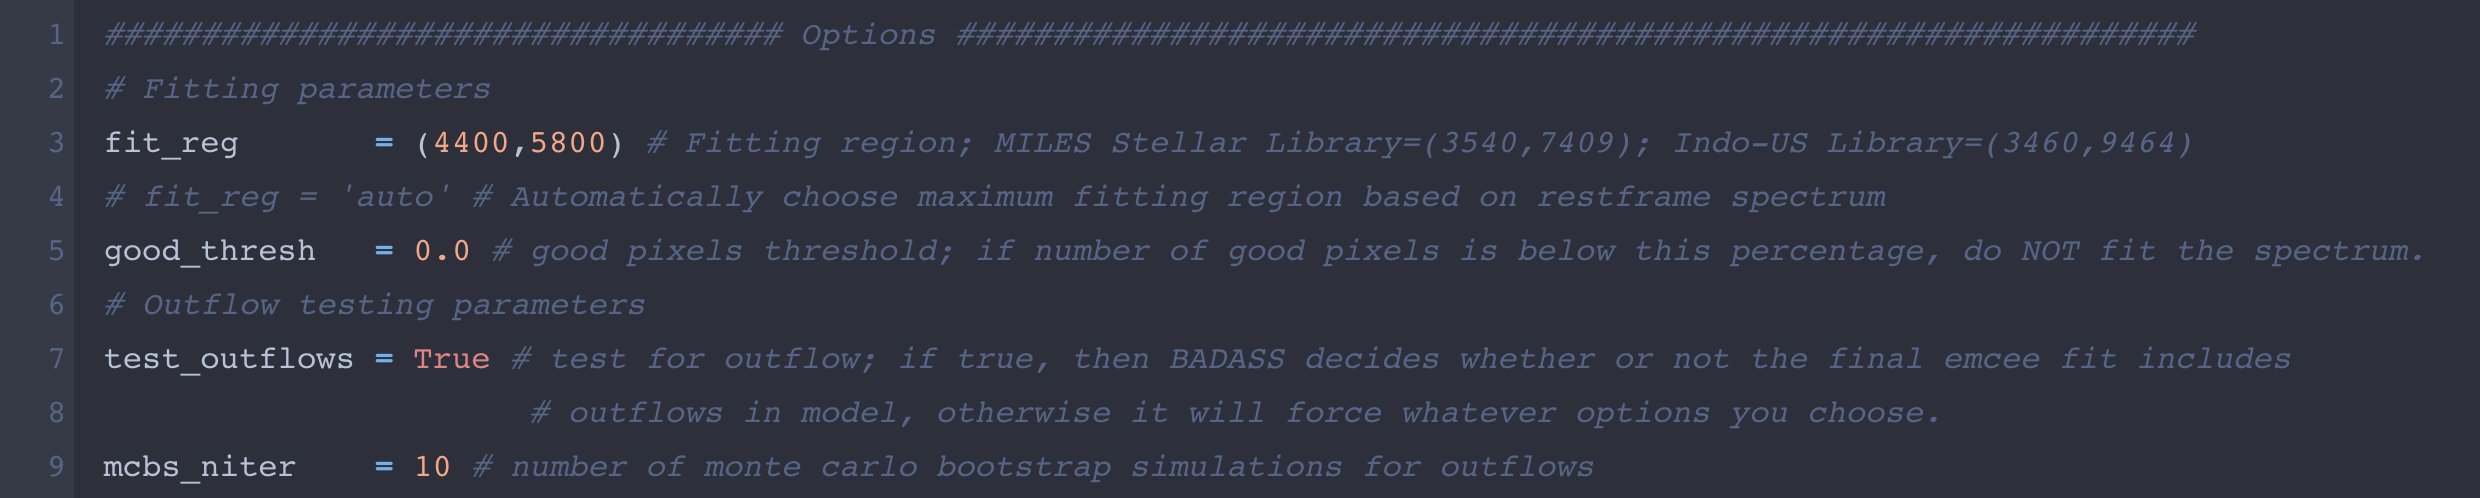
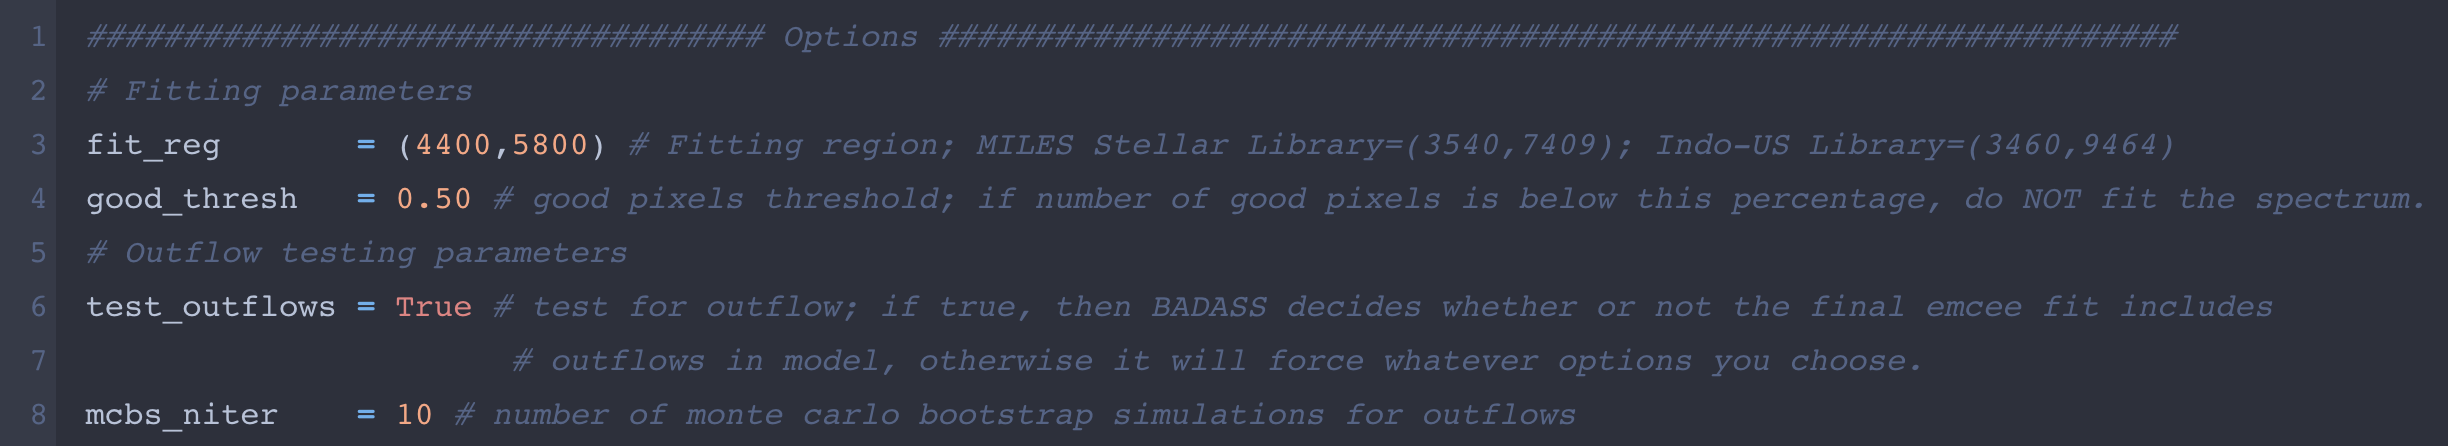
Version 6.0.2

diff --git a/badass_v6_0_2.py b/badass_v6_0_2.py
@@ -26,10 +26,8 @@ from os import path
 import os
 import shutil
 import sys
-import psutil
 import emcee
 from astropy.stats import mad_std
-import ntpath
 from astroquery.irsa_dust import IrsaDust
 import astropy.units as u
 from astropy import coordinates
@@ -43,7 +41,8 @@ import warnings
 warnings.filterwarnings("ignore", category=RuntimeWarning) 
 warnings.filterwarnings("ignore", category=UserWarning) 
 import gc # Garbage collector
-#####################################################
+##################################################################################
+
 
 #### Run BADASS ##################################################################
 
@@ -51,7 +50,7 @@ def run_BADASS(file,run_dir,temp_dir,
 			   fit_reg=(4400,5800),good_thresh=0.60,test_outflows=True,mcbs_niter=10,
 			   fit_feii=True,fit_losvd=True,fit_host=True,fit_power=True,
                fit_broad=True,fit_narrow=True,fit_outflows=True,tie_narrow=False,
-			   auto_stop=True,conv_type='all',min_samp=2500,ncor_times=2.5,autocorr_tol=5.0,
+			   nwalkers=100,auto_stop=True,conv_type='all',min_samp=2500,ncor_times=2.5,autocorr_tol=5.0,
 			   write_iter=100,write_thresh=100,burn_in=23500,min_iter=2500,max_iter=25000,threads=1,
 			   ):
 	# This is the main function responsible for executing the fitting steps in order
@@ -141,8 +140,13 @@ def run_BADASS(file,run_dir,temp_dir,
 	param_names  = [param_dict[key]['name'] for key in param_dict ]
 	init_params  = [param_dict[key]['init'] for key in param_dict ]
 	bounds       = [param_dict[key]['plim'] for key in param_dict ]
+
+	# Check number of walkers
+	# If number of walkers < 2*(# of params) (the minimum required), then set it to that
+	if nwalkers<2*len(param_names):
+		print('\n Number of walkers < 2 x (# of parameters)!.  Setting nwalkers = %d' % (2*len(param_names)))
 	
-	ndim, nwalkers = len(init_params), 50# 2*len(param_names)#50 # minimum walkers = 2*len(params)
+	ndim, nwalkers = len(init_params), nwalkers # minimum walkers = 2*len(params)
 	# initialize walker starting positions based on parameter estimation from Maximum Likelihood fitting
 	pos = [init_params + 1.0e-4*np.random.randn(ndim) for i in range(nwalkers)]
 	# Run emcee
@@ -189,9 +193,9 @@ def run_BADASS(file,run_dir,temp_dir,
 	if ('br_Ha_fwhm' in param_dict) and ('br_Ha_lum' in lum_dict):
 		print('\n Estimating black hole mass from Broad H-alpha FWHM and luminosity...')
 		print('----------------------------------------------------------------------------------------------------')
-		L5100_Ha = hbeta_to_agn_lum(lum_dict['br_Ha_lum']['par_best'],lum_dict['br_Ha_lum']['sig_low'],lum_dict['br_Ha_lum']['sig_upp'])
+		L5100_Ha = halpha_to_agn_lum(lum_dict['br_Ha_lum']['par_best'],lum_dict['br_Ha_lum']['sig_low'],lum_dict['br_Ha_lum']['sig_upp'])
 		print('\n     AGN Luminosity: log10(L5100) = %0.2f (-%0.2f, +%0.2f)' % (L5100_Ha[0],L5100_Ha[1],L5100_Ha[2]))
-		log_MBH_Halpha = estimate_BH_mass_halpha(param_dict['br_Ha_fwhm']['par_best'],param_dict['br_Ha_fwhm']['sig_low'],param_dict['br_Ha_fwhm']['sig_upp'],L5100_Hb[3])
+		log_MBH_Halpha = estimate_BH_mass_halpha(param_dict['br_Ha_fwhm']['par_best'],param_dict['br_Ha_fwhm']['sig_low'],param_dict['br_Ha_fwhm']['sig_upp'],L5100_Ha[3])
 		print('\n     BH Mass:         log10(M_BH) = %0.2f (-%0.2f, +%0.2f)' % (log_MBH_Halpha[0],log_MBH_Halpha[1],log_MBH_Halpha[2]))
 		# Write to log files
 		write_log((L5100_Ha,log_MBH_Halpha),61,run_dir)
@@ -436,6 +440,7 @@ def hbeta_to_agn_lum(L,L_low,L_upp,n_samp=1000):
 	L_hbeta = np.random.choice(a=x_L,size=n_samp,p=p_L,replace=True) * 1.e+42
 	#
 	L5100_ = A_ * 1.e+44 * (L_hbeta/1.e+42)**(B_)
+	L5100_[L5100_/L5100_ != 1] = 0.0
 	# Make distribution and get best-fit MBH and uncertainties
 	n, bins = np.histogram(L5100_,bins='doane', density=True)#, facecolor='xkcd:cerulean blue', alpha=0.75)
 	pdfmax,low1,upp1,xvec,yvec = conf_int(get_bin_centers(bins),n,100,L5100_)
@@ -478,6 +483,7 @@ def halpha_to_agn_lum(L,L_low,L_upp,n_samp=1000):
 	L_halpha = np.random.choice(a=x_L,size=n_samp,p=p_L,replace=True) * 1.e+42
 	#
 	L5100_ = A_ * 1.e+44 * (L_halpha/1.e+42)**(B_)
+	L5100_[L5100_/L5100_ != 1] = 0.0
 	# Make distribution and get best-fit MBH and uncertainties
 	n, bins = np.histogram(L5100_,bins='doane', density=True)#, facecolor='xkcd:cerulean blue', alpha=0.75)
 	pdfmax,low1,upp1,xvec,yvec = conf_int(get_bin_centers(bins),n,100,L5100_)
@@ -1594,7 +1600,7 @@ def outflow_test(lam_gal,galaxy,noise,run_dir,velscale,mcbs_niter):
 	# Determine the significance of outflows
 	# Outflow criteria:
 	#	(1) FWHM test: (FWHM_outflow - dFWHM_outflow) > (FWHM_core + dFWHM_core)
-	cond1 = ((rdict['na_oiii5007_outflow_fwhm']['med']-rdict['na_oiii5007_outflow_fwhm']['std']) > (rdict['na_oiii5007_core_fwhm']['med']+rdict['na_oiii5007_core_fwhm']['std'])) & (rdict['na_oiii5007_outflow_fwhm']['std']/rdict['na_oiii5007_outflow_fwhm']['med'] <= 0.25)
+	cond1 = ((rdict['na_oiii5007_outflow_fwhm']['med']-rdict['na_oiii5007_outflow_fwhm']['std']) > (rdict['na_oiii5007_core_fwhm']['med']+rdict['na_oiii5007_core_fwhm']['std']))
 	if (cond1==True):
 		print('          Outflow FWHM condition: Pass')
 	elif (cond1==False):
@@ -2990,6 +2996,10 @@ def run_emcee(pos,ndim,nwalkers,run_dir,lnprob_args,init_params,param_names,
 		write_log((min_samp,autocorr_tol,ncor_times,conv_type),41,run_dir)
 	# Run emcee
 	for k, result in enumerate(sampler.sample(pos, iterations=max_iter)):#,storechain=True)):
+		if ((k+1) % write_iter == 0) and ((k+1)>=write_thresh) and ((k+1)<min_iter): 
+			print('\nIteration = %d' % (k+1))
+		if ((k+1) % write_iter == 0) and ((k+1)>=write_thresh) and ((k+1)>=min_iter) and (auto_stop==False):
+			print('\nIteration = %d' % (k+1))
 		if ((k+1) % write_iter == 0) and ((k+1)>=write_thresh): # Write every [write_iter] iteration
 			# Chain location for each parameter
 			# Median of last 100 positions for each walker.
@@ -3130,7 +3140,7 @@ def run_emcee(pos,ndim,nwalkers,run_dir,lnprob_args,init_params,param_names,
 					print('\nIteration = %d' % (k+1))
 					print('-------------------------------------------------------------------------------')
 					print('- Not enough iterations for any autocorrelation times!')
-				elif all( ((k+1)>(x * ncor_times)) for x in tau) and all(y<autocorr_tol for y in tol) and (stop_iter == max_iter):
+				elif all( ((k+1)>(x * ncor_times)) for x in tau) and all( (x>1.0) for x in tau) and all(y<autocorr_tol for y in tol) and (stop_iter == max_iter):
 						print('\n ---------------------------------------------')
 						print(' | Converged at %d iterations.              | ' % (k+1))
 						print(' | Performing %d iterations of sampling... | ' % min_samp )
@@ -3140,7 +3150,7 @@ def run_emcee(pos,ndim,nwalkers,run_dir,lnprob_args,init_params,param_names,
 						stop_iter = (k+1)+min_samp
 						conv_tau = tau
 						converged = True
-				elif (any( ((k+1)<(x * ncor_times)) for x in tau) or any(y>autocorr_tol for y in tol)) and (stop_iter < orig_max_iter):
+				elif (any( ((k+1)<(x * ncor_times)) for x in tau) or any( (x==1.0) for x in tau) or any(y>autocorr_tol for y in tol)) and (stop_iter < orig_max_iter):
 					print('\n Iteration = %d' % (k+1))
 					print('-------------------------------------------------------------------------------')
 					print('- Jumped out of convergence! Resetting convergence criteria...')
@@ -3183,7 +3193,7 @@ def run_emcee(pos,ndim,nwalkers,run_dir,lnprob_args,init_params,param_names,
 					print('\nIteration = %d' % (k+1))
 					print('-------------------------------------------------------------------------------')
 					print('- Not enough iterations for any autocorrelation times!')
-				elif all( ((k+1)>(x * ncor_times)) for x in tau_interest) and all(y<autocorr_tol for y in tol_interest) and (stop_iter == max_iter):
+				elif all( ((k+1)>(x * ncor_times)) for x in tau_interest) and all( (x>1.0) for x in tau_interest) and all(y<autocorr_tol for y in tol_interest) and (stop_iter == max_iter):
 						print('\n ---------------------------------------------')
 						print(' | Converged at %d iterations.              | ' % (k+1))
 						print(' | Performing %d iterations of sampling... | ' % min_samp )
@@ -3193,7 +3203,7 @@ def run_emcee(pos,ndim,nwalkers,run_dir,lnprob_args,init_params,param_names,
 						stop_iter = (k+1)+min_samp
 						conv_tau = tau
 						converged = True
-				elif (any( ((k+1)<(x * ncor_times)) for x in tau_interest) or any(y>autocorr_tol for y in tol_interest)) and (stop_iter < orig_max_iter):
+				elif (any( ((k+1)<(x * ncor_times)) for x in tau_interest) or any( (x==1.0) for x in tau_interest) or any(y>autocorr_tol for y in tol_interest)) and (stop_iter < orig_max_iter):
 					print('\n Iteration = %d' % (k+1))
 					print('-------------------------------------------------------------------------------')
 					print('- Jumped out of convergence! Resetting convergence criteria...')
@@ -3765,7 +3775,7 @@ def write_param(param_dict,flux_dict,lum_dict,run_dir):
 	    for i in range(0,len(par_names),1):
 	        print(par_names[i],par_best[i],sig_low[i],sig_upp[i])
 	# Write best-fit paramters to FITS table
-	col1 = fits.Column(name='parameter', format='20A', array=par_names)
+	col1 = fits.Column(name='parameter', format='30A', array=par_names)
 	col2 = fits.Column(name='best_fit', format='E', array=par_best)
 	col3 = fits.Column(name='sigma_low', format='E', array=sig_low)
 	col4 = fits.Column(name='sigma_upp', format='E', array=sig_upp)
@@ -3830,6 +3840,9 @@ def plot_best_model(param_dict,lam_gal,galaxy,noise,gal_temp,na_feii_temp,br_fei
 		# Galaxy + Best-fit Model
 		if (key is not 'residuals') and (key is not 'noise') and (key is not 'wave') and (key is not 'data'):
 			ax1.plot(lam_gal,comp_dict[key]['comp'],linewidth=comp_dict[key]['linewidth'],color=comp_dict[key]['pcolor'],label=key,zorder=15)
+		if (key not in ['residuals','noise','wave','data','model','na_feii_template','br_feii_template','host_galaxy','power']):
+			ax1.axvline(lam_gal[np.where(comp_dict[key]['comp']==np.max(comp_dict[key]['comp']))[0][0]],color='xkcd:white',linestyle='--',linewidth=0.5)
+			ax2.axvline(lam_gal[np.where(comp_dict[key]['comp']==np.max(comp_dict[key]['comp']))[0][0]],color='xkcd:white',linestyle='--',linewidth=0.5)
 
 	ax1.plot(lam_gal,comp_dict['data']['comp'],linewidth=0.5,color='white',label='data',zorder=0)
 
@@ -3995,7 +4008,7 @@ Outflow amplitude condition: %s
 		logfile.write('\n{0:<30}{1:<25}'.format('ndim'        , ndim ))
 		logfile.write('\n{0:<30}{1:<25}'.format('nwalkers'    , nwalkers ))
 		logfile.write('\n{0:<30}{1:<25}'.format('auto_stop'   , str(auto_stop) ))
-		logfile.write('\n{0:<30}{1:<25}'.format('conv_type'   , conv_type ))
+		# logfile.write('\n{0:<30}{1:<25}'.format('conv_type'   , conv_type ))
 		logfile.write('\n{0:<30}{1:<25}'.format('user burn_in', burn_in ))
 		logfile.write('\n{0:<30}{1:<25}'.format('write_iter'  , write_iter ))
 		logfile.write('\n{0:<30}{1:<25}'.format('write_thresh', write_thresh ))
